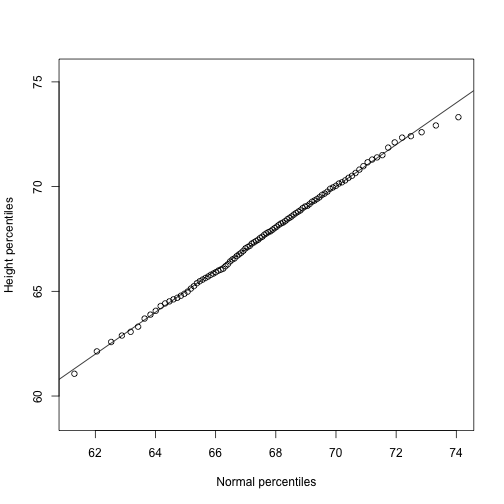
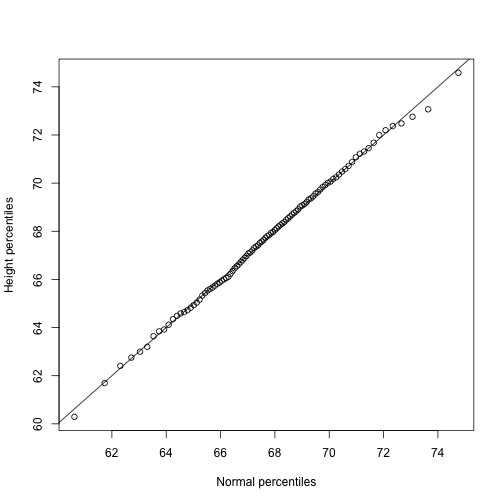
adding exploratory_data_analysis to book

diff --git a/manuscript/exploratory_data_analysis.md b/manuscript/exploratory_data_analysis.md
@@ -60,7 +60,7 @@ and for the normal distribution:
 
 
 ```r
-ps <- seq(0, 1, length=101)
+ps <- ( seq(0,99) + 0.5 )/100 
 qs <- quantile(x, ps)
 normalqs <- qnorm(ps, mean(x), popsd(x))
 plot(normalqs,qs,xlab="Normal percentiles",ylab="Height percentiles")
@@ -140,23 +140,25 @@ qqnorm(exec.pay)
 qqline(exec.pay)
 ```
 
-![Histogram and QQ-plot of executive pay.](images/R/exploratory_data_analysis-tmp-unnamed-chunk-2-1.png) 
+![Histogram and QQ-plot of executive pay.](images/R/exploratory_data_analysis-tmp-execpay-1.png) 
 
 In addition to QQ-plots, a practical summary of data is to compute 3
 percentiles: 25-th, 50-th (the median) and the 75-th. A boxplot shows
 these 3 values along with a 
 range of the points within median {$$}\pm{/$$} 1.5 (75-th percentile -
 25th-percentile). Values outside this range are shown as points and
-sometimes refereed to as _outliers_. Here we show just one boxplot,
-however one of the great benefits of boxplots is that we could easily
-show many distributions in one plot, by lining them up, side by side. We will see several examples of this throughout the book.
+sometimes refereed to as _outliers_. 
 
 
 ```r
 boxplot(exec.pay, ylab="10,000s of dollars", ylim=c(0,400))
 ```
 
-![Simple boxplot of executive pay.](images/R/exploratory_data_analysis-tmp-unnamed-chunk-3-1.png) 
+![Simple boxplot of executive pay.](images/R/exploratory_data_analysis-tmp-unnamed-chunk-2-1.png) 
+
+Here we show just one boxplot,
+however one of the great benefits of boxplots is that we could easily
+show many distributions in one plot, by lining them up, side by side. We will see several examples of this throughout the book.
 
 <a name="scatterplots"></a>
 
